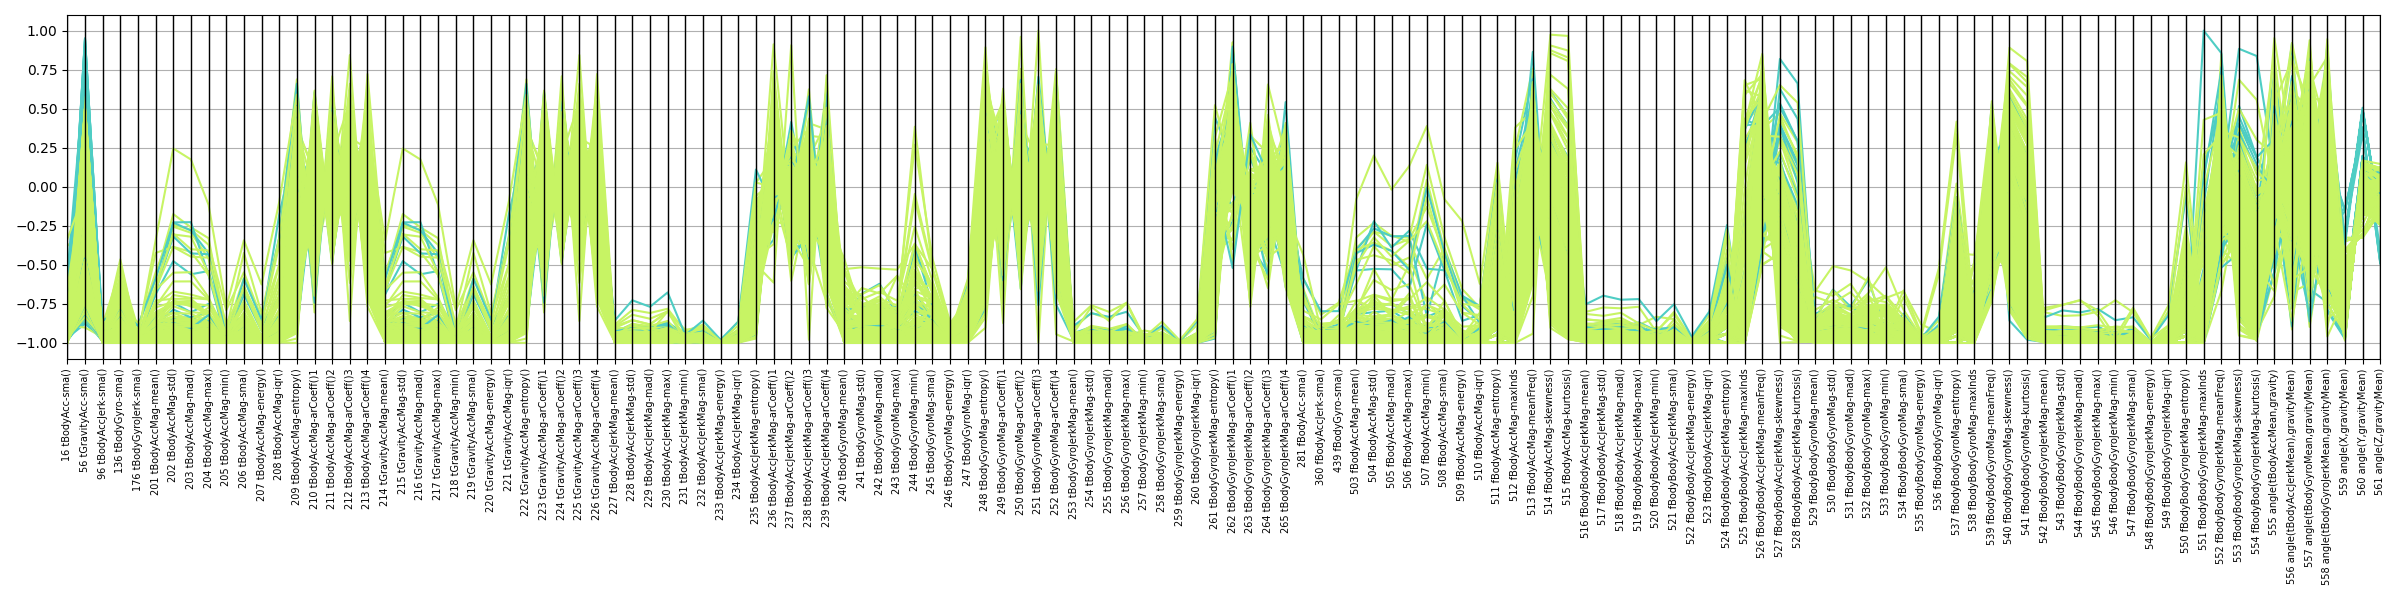
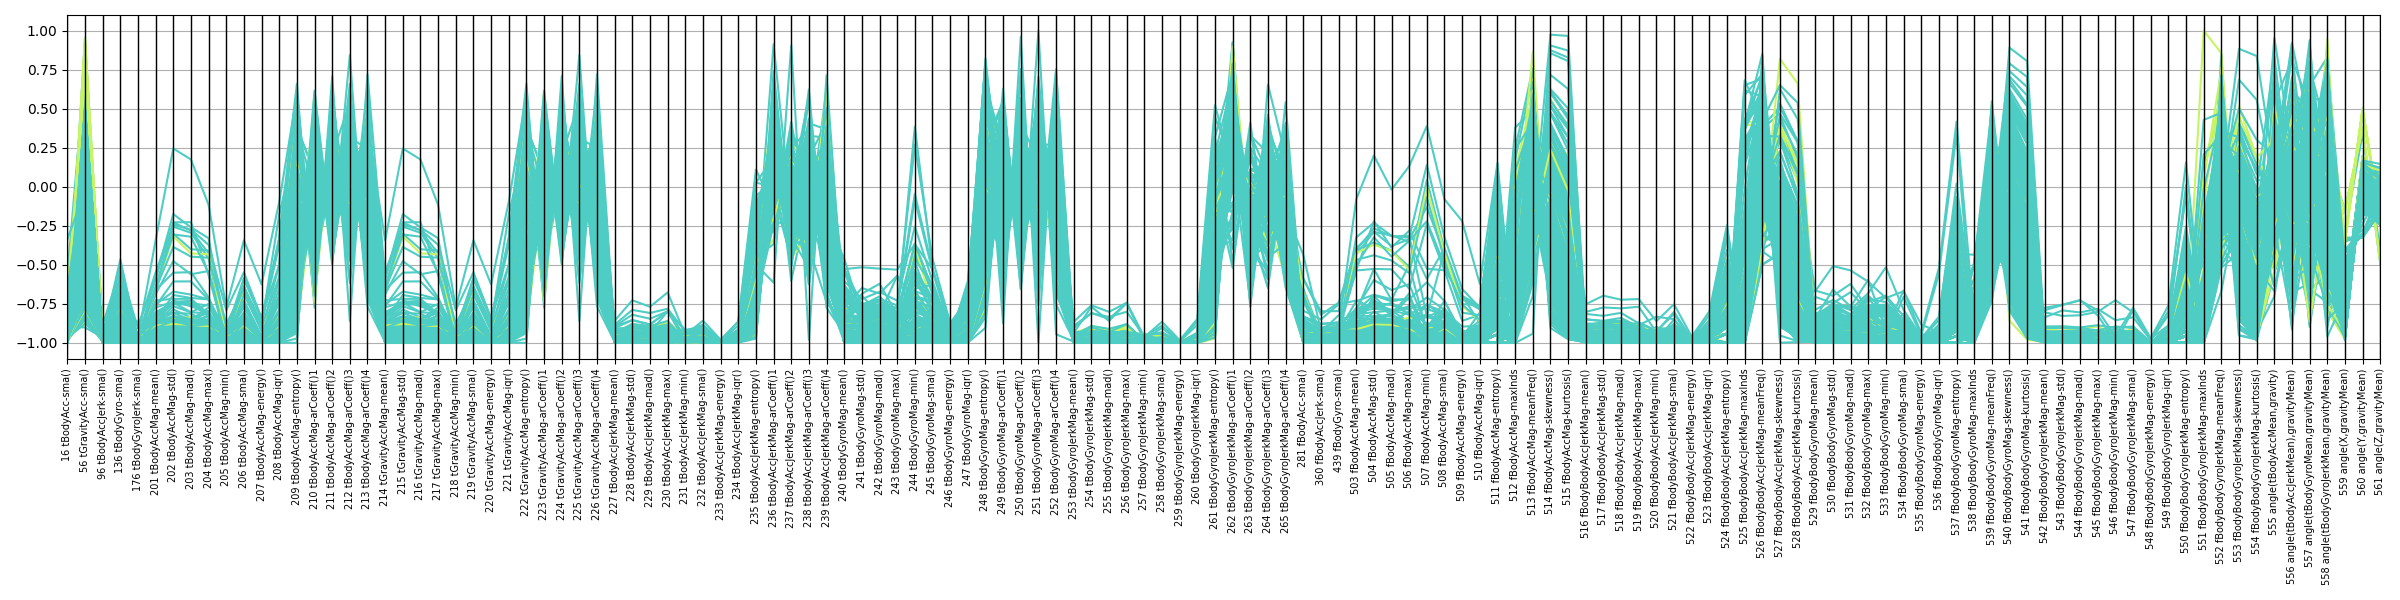
fix layer, callback

Changed region(s): [[0.0312, 0.06, 1.0, 0.6]]

diff --git a/src/train.py b/src/train.py
@@ -38,7 +38,7 @@ def train_model1(conf: dict) -> None:
         metrics=conf["training"]["metric"],
     )
     early_stopping = EarlyStopping(
-        monitor="loss", restore_best_weights=True, patience=conf["training"]["patience"]
+        monitor="val_loss", restore_best_weights=True, patience=conf["training"]["patience"]
     )
     classifier.fit(
         training_set,

diff --git a/src/model/model1.py b/src/model/model1.py
@@ -40,7 +40,7 @@ class TimeWiseNormalisation(Layer):
             inputs, axis=-2, keepdims=True
         )  # do not squeeze to allow broadcasting
         sigma = tf.math.reduce_std(inputs, axis=-2, keepdims=True)
-        return inputs - mu / sigma
+        return (inputs - mu) / sigma
 
 
 class TimeAndFeatWiseNormalisation(Layer):

diff --git a/report/report.md b/report/report.md
@@ -91,7 +91,7 @@ For example these tables tell us that:
 
 Let's see whether feeding the deep learning model with additional features could help to fix this type of error:
 
-Here is a parallel coordinates plot that displays samples in the coordinate space. When the deep learning model classifies a SITTING subject as a STANDING subject the trajectory is blue, while when it correctly classifies a SITTING subject, the trajectory is green.
+Here is a parallel coordinates plot that displays samples in the coordinate space. When the deep learning model classifies a SITTING subject as a STANDING subject the trajectory is green, while when it correctly classifies a SITTING subject, the trajectory is turquoise.
 
 If there is any consistent differences between the two types of trajectories, then we can hypothesize that the corresponding features may help to improve the representation of the erroneous samples. This is because observing such differences boils down to identifying "a blind spot" for the model, given that it is unaware of the features in this plot since it has been trained on raw signals only.
 
